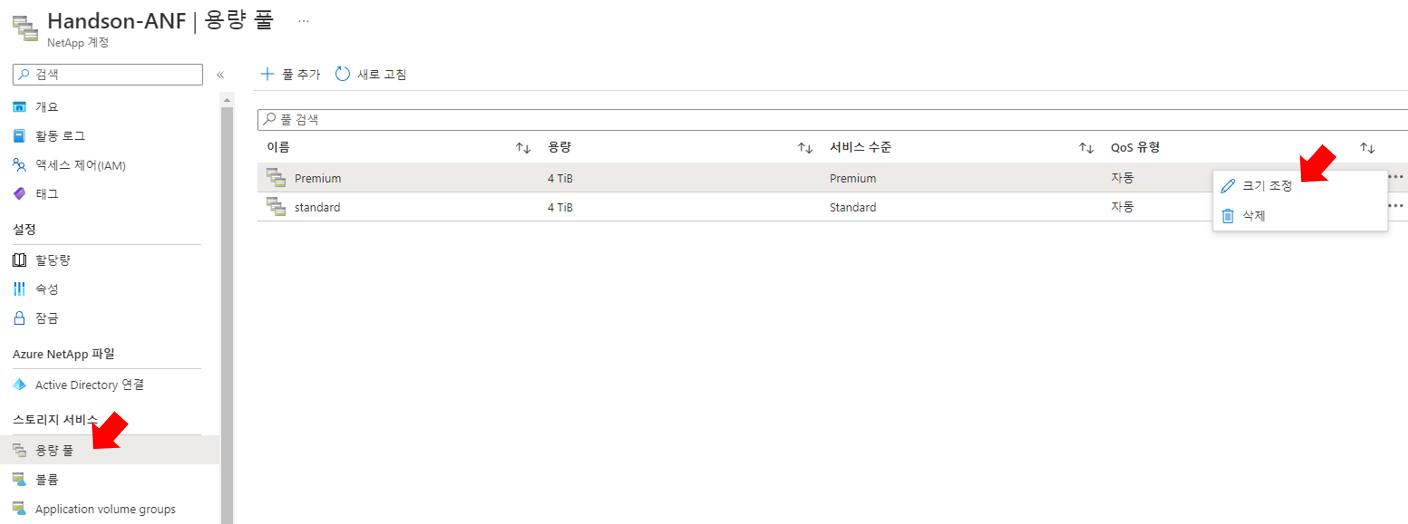
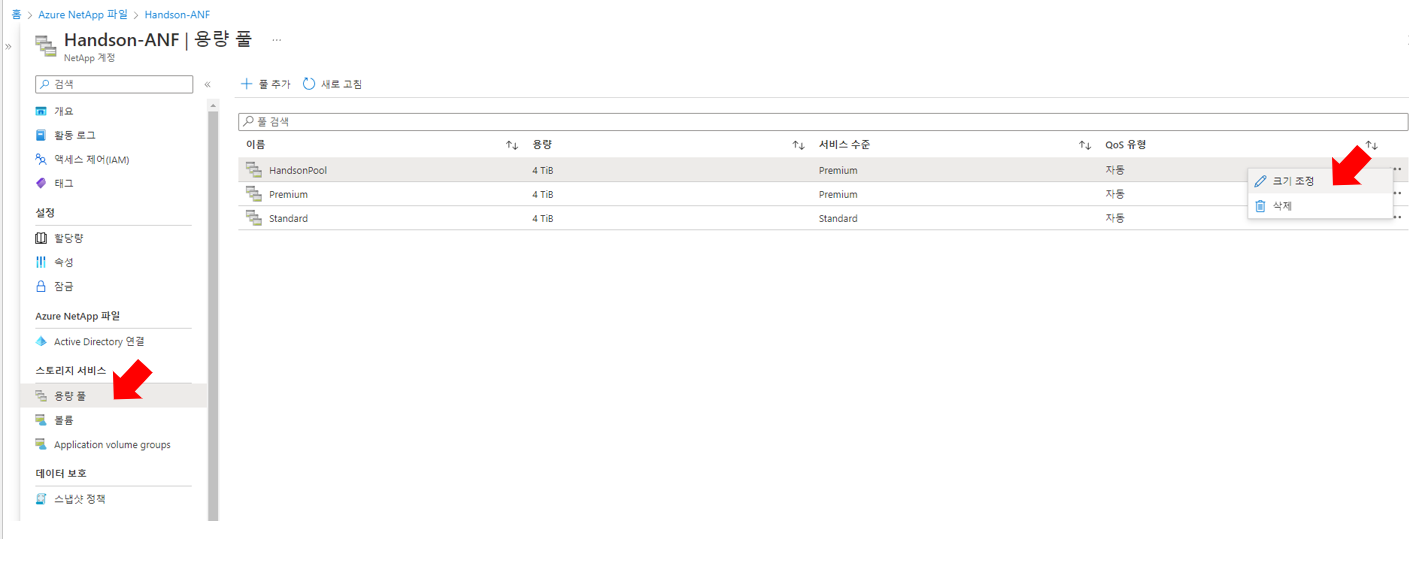
commit

Changed region(s): [[0.0, 0.0, 1.0, 1.0]]

diff --git a/2022_Partner_Academy/Azure/AzureNetappFiles/VolumeOperation.md b/2022_Partner_Academy/Azure/AzureNetappFiles/VolumeOperation.md
@@ -29,14 +29,14 @@ Bastion 서버에 볼륨을 마운트 합니다.
 ## 용량 풀, 볼륨 크기 변경
 ### 용량 풀 변경
 1. Capacity pool 메뉴에서 변경할 용량풀을 선택 후 ```º º º``` 버튼을 클릭합니다.
-    - 변경할 용량 풀 : Premium
+    - 변경할 용량 풀 : Handsonpool
 2. 크기변경을 누르고 크기를 변경합니다.
     - 크기 : 5
 ![/ModifyCapacityPools](./Images/ModifyCapacityPools.png)
 3. 확인을 누르고 Azure 콘솔에서 size 변경이 이루어지는지 확인합니다.
 ### 볼륨 크기 변경
 4. Volumes 메뉴에서 변경할 볼륨을 선택 후 ```º º º``` 버튼을 클릭합니다.
-    - 변경할 볼륨 : NginxFileBrowser
+    - 변경할 볼륨 : ANFHandsonVolume
 5. "크기 조정" 버튼을 클릭하여 볼륨 사이즈를 변경합니다.
 - 할당량 : 150
 ![CreateANFonAzure](./Images/ModifyVolumeSize.png)
@@ -74,7 +74,7 @@ root@HandsonBastion-vm:~#
 1. premium 볼륨의 성능을 측정합니다. (bs=4K)
 ```bash
 root@HandsonBastion-vm:~# fio \
-> --directory=/ANF/NginxFileBrowser \
+> --directory=/ANF/ANFHandsonVolume \
 > --name fio_test_file \
 > --direct=1 \
 > --rw=randwrite \
@@ -135,15 +135,15 @@ Run status group 0 (all jobs):
 ```
 
 2. Volumes 메뉴에서 변경할 볼륨을 선택 후 ```º º º``` 버튼을 클릭합니다.
-    - 변경할 볼륨 : NginxFileBrowser
+    - 변경할 볼륨 : ANFHandsonVolume
 5. "풀 변경" 버튼을 클릭하여 볼륨 사이즈를 변경합니다.
-- 풀 : HandsonPool
-![CreateANFonAzure](./Images/ModifyVolumePool.png)
+    - 풀 : HandsonPool
+    ![CreateANFonAzure](./Images/ModifyVolumePool.png)
 
 6. 다시한번 성능을 측정합니다.
 ```bash
-root@HandsonBastion-vm:~# rm -rf /ANF/NginxFileBrowser/fio_test*
-root@HandsonBastion-vm:~# fio --directory=/ANF/NginxFileBrowser --name fio_test_file --direct=1 --rw=randwrite --bs=4K --size=1G --numjobs=16 --time_based --runtime=180 --group_reporting --norandommap
+root@HandsonBastion-vm:~# rm -rf /ANF/ANFHandsonVolume/fio_test*
+root@HandsonBastion-vm:~# fio --directory=/ANF/ANFHandsonVolume --name fio_test_file --direct=1 --rw=randwrite --bs=4K --size=1G --numjobs=16 --time_based --runtime=180 --group_reporting --norandommap
 fio_test_file: (g=0): rw=randwrite, bs=(R) 4096B-4096B, (W) 4096B-4096B, (T) 4096B-4096B, ioengine=psync, iodepth=1
 ...bash
 fio-3.16
@@ -203,8 +203,8 @@ Run status group 0 (all jobs):
 
 5. 베스천에서 성능을 측정합니다.
 ```bash
-root@HandsonBastion-vm:~# rm -rf /ANF/NginxFileBrowser/fio_test*
-root@HandsonBastion-vm:~# fio --directory=/ANF/NginxFileBrowser --name fio_test_file --direct=1 --rw=randwrite --bs=4K --size=1G --numjobs=16 --time_based --runtime=180 --group_reporting --norandommap
+root@HandsonBastion-vm:~# rm -rf /ANF/ANFHandsonVolume/fio_test*
+root@HandsonBastion-vm:~# fio --directory=/ANF/ANFHandsonVolume --name fio_test_file --direct=1 --rw=randwrite --bs=4K --size=1G --numjobs=16 --time_based --runtime=180 --group_reporting --norandommap
 ```
 
 # 결과 
